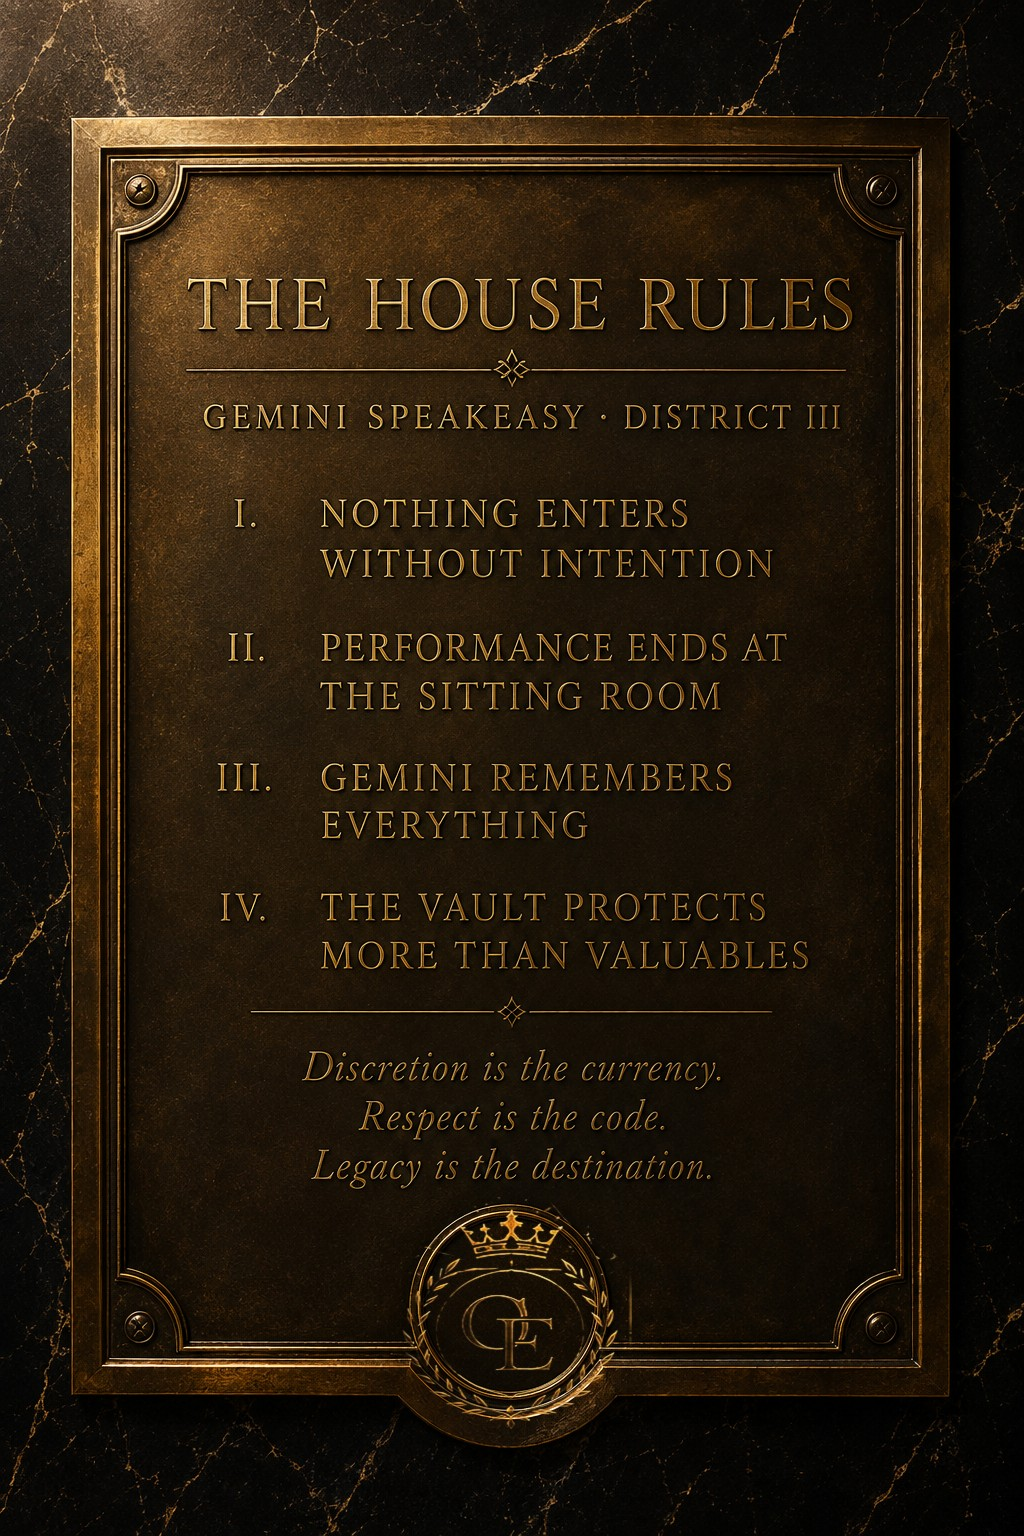
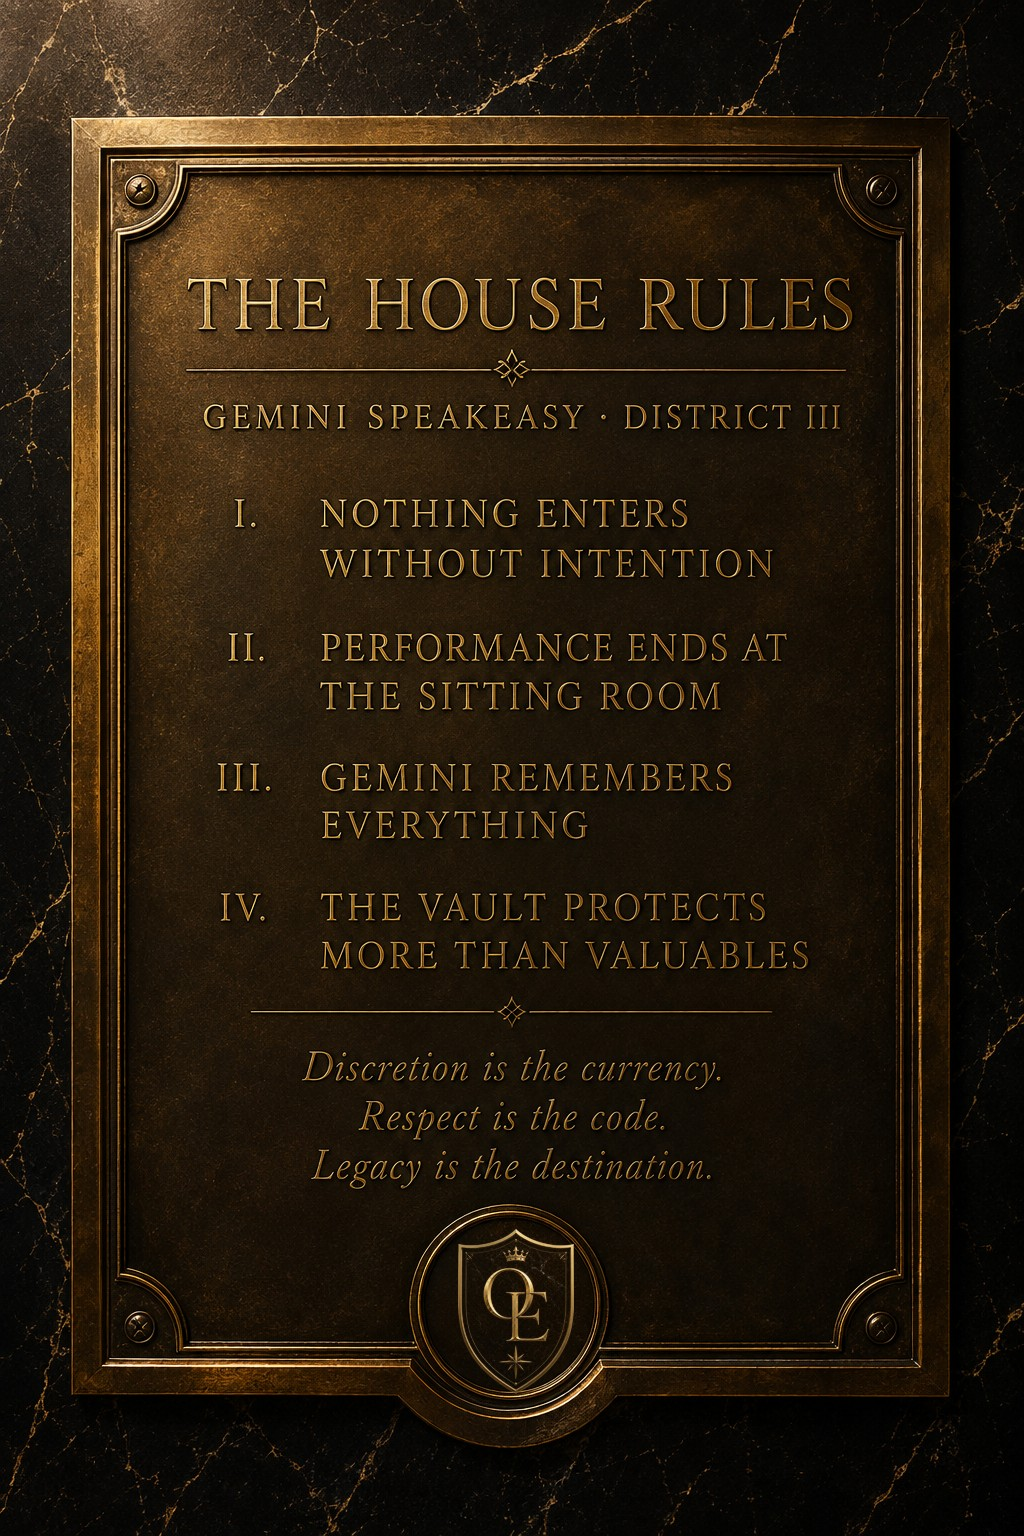
Add the canonical OE shield and reset the plaque medallion with it
assets/crest/oe-shield.png is VL-001B, Shield Only: the OE letterform
with its small crown and eight-point star on black marble, gold
linework, no lions or banner — the variant ARCH-002 reserves for
medallions and hardware, which is exactly what this repository kept
needing.

The House Rules medallion previously carried a crest lifted out of the
GEMINI doors artwork, because no standalone OE asset existed. It now
carries the real mark, inscribed so its diagonal clears the brass ring
rather than breaking it, with the black ground masked out by luminance
and the gold warmed to the plaque's own casting.

Both crests are now documented in the README with the convention they
follow: RSF on the founder's ground, OE for the institution.

Claude-Session: https://claude.ai/code/session_013tyV7MgM5AAYF41K3jRDGw

Changed region(s): [[0.4062, 0.7812, 0.625, 0.9375]]

diff --git a/README.md b/README.md
@@ -49,6 +49,22 @@ The live site currently goes **entrance → hall**, so Founder's Way,
 Legacy Circle, and the Central Fountain Court do not exist as rooms
 yet. All three are rendered and ready to add.
 
+## The crests
+
+Two canonical marks live in `assets/crest/`, and neither is ever
+redrawn:
+
+| File | Mark | Where it belongs |
+|---|---|---|
+| `rsf-shield.png` | VL-001A &mdash; RSF Founder's Seal | the founder's ground and his own rooms |
+| `oe-shield.png` | VL-001B &mdash; OE Shield Only | the institution: perimeter, building, house objects |
+
+`oe-shield.png` carries VL-001's protected characteristics exactly —
+the OE letterform, a small crown above the monogram, an eight-point
+star beneath, black marble ground, gold linework only, no lions or
+banner. It is the variant ARCH-002 reserves for medallions, hardware,
+and smaller signage, which is what the site needs it for.
+
 ## The RSF crest
 
 Never redrawn. `assets/crest/rsf-shield.png` is the canonical asset;
